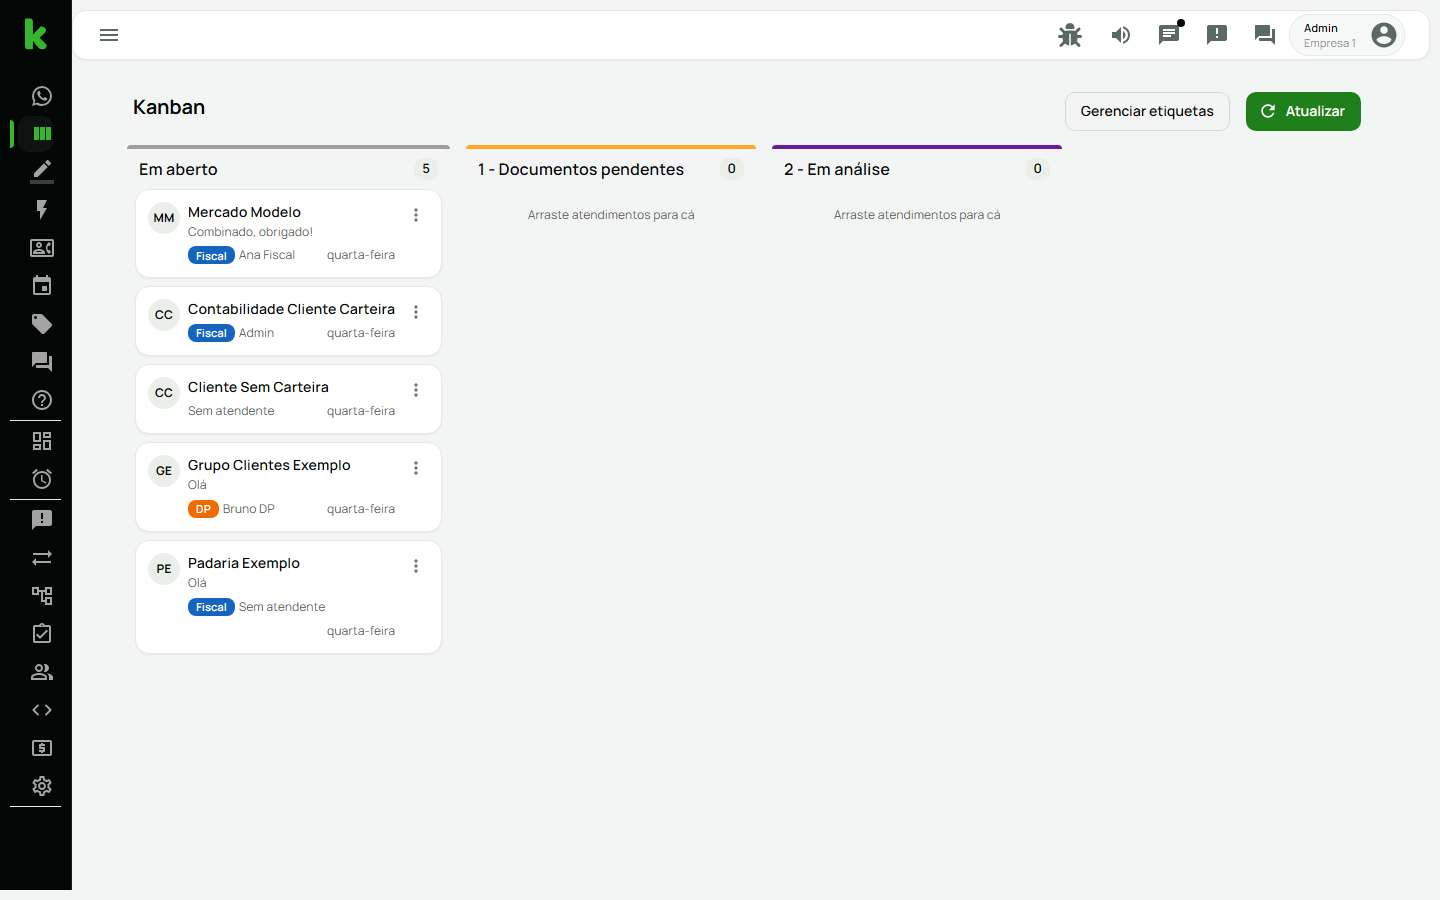
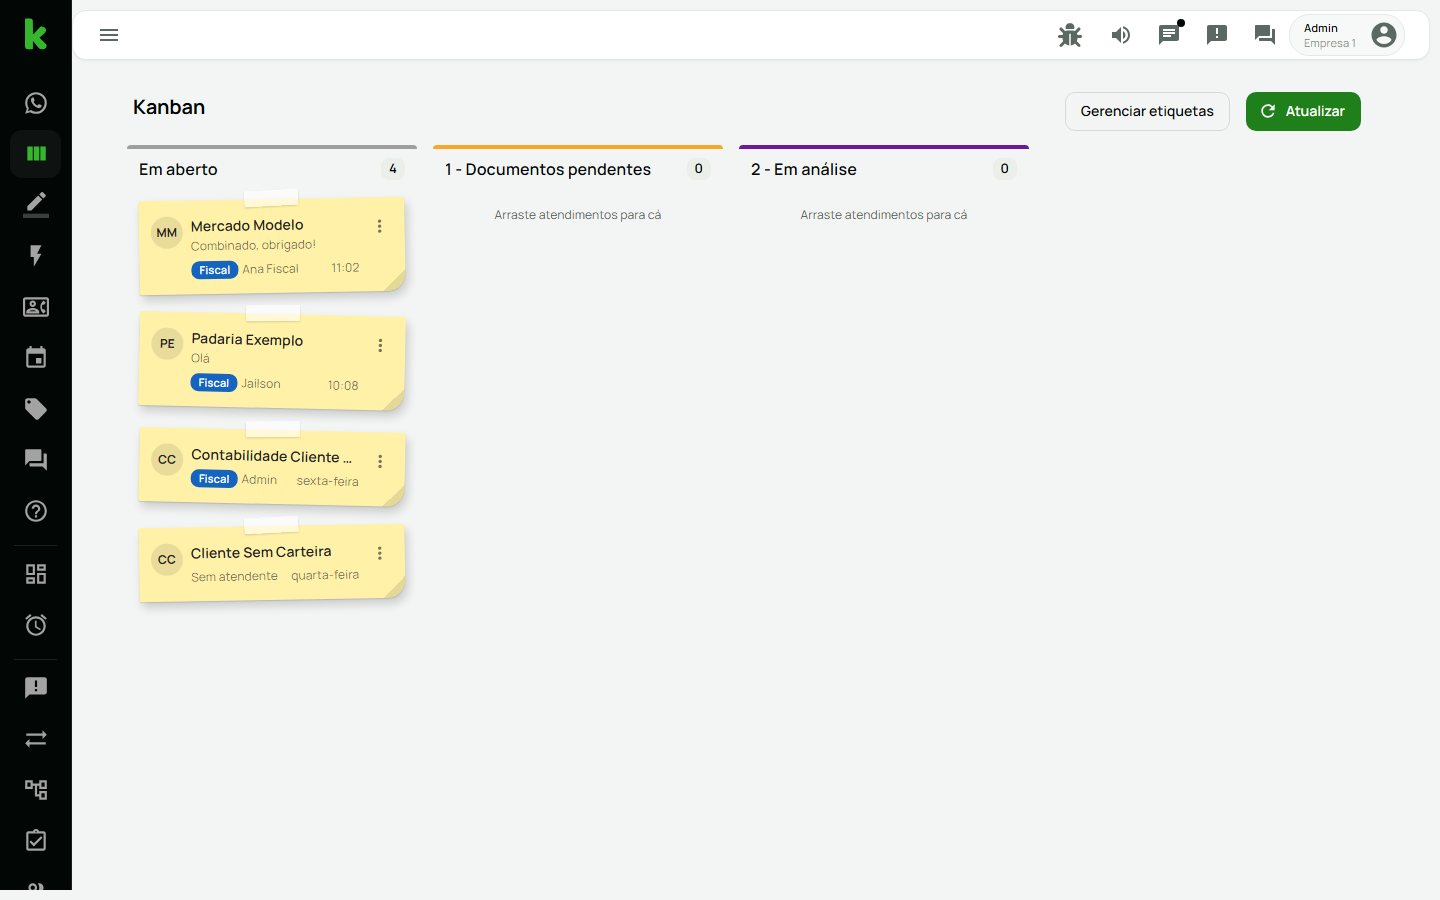
KOM-144 Kanban em formato de post-it e coluna de largura fixa
- Cartões viram post-its: cor da etiqueta da coluna bem clara (amarelo em "Em aberto"), fita no topo, canto dobrado,
  inclinação pequena e fixa por atendimento e destaque ao passar o mouse; tinta escura nos dois temas.
- Coluna com 290 px fixos: uma mensagem longa deixava a primeira coluna com 2.800 px e escondia as outras.
- Prévia sem marcas de markdown (*Admin:*) e contato sem nome com o número formatado.
- PRD (RF-004), CHANGELOG e captura 02-kanban refeita só com contatos fictícios (as demais capturas não foram
  refeitas porque o banco de desenvolvimento agora tem conversas reais).

diff --git a/frontend/src/pages/Kanban/index.js b/frontend/src/pages/Kanban/index.js
@@ -32,11 +32,29 @@ import toastError from "../../errors/toastError";
 import { i18n } from "../../translate/i18n";
 import { SocketContext } from "../../context/Socket/SocketContext";
 import { getInitials } from "../../helpers/getInitials";
+import { formatWhatsappContactName } from "../../helpers/formatWhatsappDisplay";
 import pastRelativeDate from "../../helpers/pastRelativeDate";
 
 // Zap Komunick: Kanban board by tags (docs/PRD.md, RF-004)
 
 const OPEN_LANE = 0;
+
+// Post-it notes: the lane's tag color washed out toward white (classic yellow
+// for the "open" lane) and a small tilt that depends only on the ticket id
+const NOTE_YELLOW = "#FFF1A8";
+
+const noteColor = hex => {
+  const m = /^#?([0-9a-f]{6})$/i.exec(hex || "");
+  if (!m) return NOTE_YELLOW;
+  const n = parseInt(m[1], 16);
+  const mix = c => Math.round(c + (255 - c) * 0.8);
+  const r = mix((n >> 16) & 255);
+  const g = mix((n >> 8) & 255);
+  const b = mix(n & 255);
+  return `rgb(${r}, ${g}, ${b})`;
+};
+
+const noteTilt = id => [-1.4, 0.9, -0.6, 1.3, -1][Math.abs(Number(id) || 0) % 5];
 
 const useStyles = makeStyles(theme => ({
   board: {
@@ -50,6 +68,9 @@ const useStyles = makeStyles(theme => ({
   },
   lane: {
     flex: "0 0 290px",
+    // without this a long unbreakable preview stretches the column (min-width: auto)
+    minWidth: 0,
+    width: 290,
     display: "flex",
     flexDirection: "column",
     maxHeight: "100%",
@@ -82,27 +103,76 @@ const useStyles = makeStyles(theme => ({
     padding: theme.spacing(0, 1, 1),
     display: "flex",
     flexDirection: "column",
-    gap: theme.spacing(1),
+    gap: theme.spacing(1.5),
+    padding: theme.spacing(0, 1.5, 1.5),
     minHeight: 80
   },
   avatar: {
-    backgroundColor: theme.komunick.tagBackground,
-    color: theme.palette.text.primary,
+    backgroundColor: "rgba(35, 34, 27, 0.10)",
+    color: "#23221b",
     width: 32,
     height: 32,
     fontSize: 12,
     fontWeight: 700
   },
+  // the note keeps dark ink in both themes: it is paper, not a panel
   card: {
-    padding: theme.spacing(1.5),
-    border: `1px solid ${theme.palette.divider}`,
+    position: "relative",
+    marginTop: 10,
+    padding: theme.spacing(2, 1.5, 1.75),
+    border: "none",
+    borderRadius: "2px 2px 18px 2px",
+    color: "#23221b",
     cursor: "grab",
     display: "flex",
     gap: theme.spacing(1),
     alignItems: "flex-start",
+    boxShadow: "0 1px 1px rgba(0, 0, 0, 0.12), 3px 6px 10px rgba(0, 0, 0, 0.16)",
+    transform: "rotate(var(--tilt, 0deg))",
+    transition: "transform 140ms ease, box-shadow 140ms ease",
+    "&:hover, &:focus-visible": {
+      transform: "rotate(0deg) translateY(-2px) scale(1.02)",
+      boxShadow:
+        "0 2px 2px rgba(0, 0, 0, 0.12), 6px 12px 18px rgba(0, 0, 0, 0.22)"
+    },
+    "&:active": {
+      cursor: "grabbing"
+    },
+    // strip of tape holding the note
+    "&::before": {
+      content: '""',
+      position: "absolute",
+      top: -9,
+      left: "50%",
+      width: 54,
+      height: 16,
+      marginLeft: -27,
+      backgroundColor: "rgba(255, 255, 255, 0.55)",
+      boxShadow: "0 1px 2px rgba(0, 0, 0, 0.15)",
+      transform: "rotate(-2deg)"
+    },
+    // curled bottom right corner
+    "&::after": {
+      content: '""',
+      position: "absolute",
+      right: 0,
+      bottom: 0,
+      width: 22,
+      height: 22,
+      borderRadius: "0 0 18px 0",
+      background:
+        "linear-gradient(135deg, transparent 50%, rgba(0, 0, 0, 0.10) 50%)"
+    },
     "&:focus-visible": {
-      outline: `2px solid ${theme.palette.primary.main}`
+      outline: `2px solid ${theme.palette.primary.main}`,
+      outlineOffset: 3
     }
+  },
+  noteMeta: {
+    color: "rgba(35, 34, 27, 0.66)"
+  },
+  noteIcon: {
+    color: "rgba(35, 34, 27, 0.6)"
   },
   cardBody: {
     flex: 1,
@@ -140,13 +210,17 @@ const useStyles = makeStyles(theme => ({
 
 const laneId = lane => lane.tag?.id ?? OPEN_LANE;
 
-const KanbanCard = ({ ticket, lanes, currentLane, onMove, onOpen }) => {
+const KanbanCard = ({ ticket, lanes, currentLane, color, onMove, onOpen }) => {
   const classes = useStyles();
   const [anchorEl, setAnchorEl] = useState(null);
 
   return (
     <Paper
       className={classes.card}
+      style={{
+        backgroundColor: noteColor(color),
+        "--tilt": `${noteTilt(ticket.id)}deg`
+      }}
       draggable
       tabIndex={0}
       onDragStart={e => {
@@ -166,16 +240,21 @@ const KanbanCard = ({ ticket, lanes, currentLane, onMove, onOpen }) => {
         {getInitials(ticket.contact?.name || "")}
       </Avatar>
       <div className={classes.cardBody} onClick={() => onOpen(ticket)}>
-        <Typography variant="body2" className={classes.cardTitle}>
-          {ticket.contact?.name}
+        <Typography
+          variant="body2"
+          color="inherit"
+          className={classes.cardTitle}
+        >
+          {formatWhatsappContactName(ticket.contact, ticket)}
         </Typography>
         <Typography
           variant="caption"
-          color="textSecondary"
           component="div"
-          className={classes.cardText}
+          className={`${classes.cardText} ${classes.noteMeta}`}
         >
-          {(ticket.lastMessage || "").split("\n")[0]}
+          {(ticket.lastMessage || "")
+            .replace(/[*_~`]/g, "")
+            .replace(/\s*\n+\s*/g, " ")}
         </Typography>
         <div className={classes.cardMeta}>
           {ticket.queue && (
@@ -190,13 +269,13 @@ const KanbanCard = ({ ticket, lanes, currentLane, onMove, onOpen }) => {
               }}
             />
           )}
-          <Typography variant="caption" color="textSecondary">
+          <Typography variant="caption" className={classes.noteMeta}>
             {ticket.user?.name || i18n.t("kanban.noAttendant")}
           </Typography>
           {ticket.updatedAt && (
             <Typography
               variant="caption"
-              color="textSecondary"
+              className={classes.noteMeta}
               style={{ marginLeft: "auto" }}
             >
               {pastRelativeDate(parseISO(ticket.updatedAt))}
@@ -209,6 +288,7 @@ const KanbanCard = ({ ticket, lanes, currentLane, onMove, onOpen }) => {
           size="small"
           aria-label={i18n.t("kanban.moveTo")}
           aria-haspopup="true"
+          className={classes.noteIcon}
           onClick={e => setAnchorEl(e.currentTarget)}
         >
           <MoreVertIcon fontSize="small" />
@@ -414,6 +494,7 @@ const Kanban = () => {
                       ticket={ticket}
                       lanes={lanes}
                       currentLane={id}
+                      color={lane.tag?.color}
                       onMove={handleMove}
                       onOpen={handleOpen}
                     />

diff --git a/CHANGELOG.md b/CHANGELOG.md
@@ -41,6 +41,8 @@ Mudanças relevantes para quem usa, integra ou opera o projeto.
   das colunas, avatares neutros e carteira em etiqueta verde em Contatos, selos de situação suaves no Painel de SLA.
 - Menu lateral maior e mais legível: itens de 48 px, ícones de 26 px, texto de 15,5 px, títulos de seção de 12,5 px e
   largura de 264 px (72 px só com ícones).
+- Kanban em formato de post-it: cada atendimento é uma nota na cor da etiqueta da coluna (amarelo na coluna "Em aberto"),
+  com fita no topo, canto dobrado, pequena inclinação fixa por atendimento e efeito ao passar o mouse.
 
 ### Corrigido
 
@@ -51,6 +53,9 @@ Mudanças relevantes para quem usa, integra ou opera o projeto.
 - Os contadores das abas "Atendendo" e "Aguardando" não cobrem mais o texto da aba, e o botão "Aceitar" da lista de
   notificações não cobre mais o nome e o horário do atendimento.
 - Erro de console em todas as páginas: o `index.html` chamava um script (`/notificame-gateway.js`) que não existe no projeto.
+- Kanban: a coluna "Em aberto" esticava até 2.800 px com uma mensagem longa e escondia as outras colunas; agora fica em
+  290 px. A prévia da mensagem não mostra mais as marcas de formatação (como `*Admin:*`) e o contato sem nome aparece
+  com o número formatado, como na lista de atendimentos.
 
 ### Operação
 

diff --git a/docs/PRD.md b/docs/PRD.md
@@ -133,6 +133,9 @@ de coluna troca a etiqueta dele.
 - O quadro mostra os atendimentos em aberto que o usuário pode ver na lista: o administrador vê todos; o atendente vê
   os seus e os aguardando das filas dele, e só move esses. Mostra até 500, os movimentados mais recentemente.
 - Além de arrastar, cada cartão tem o menu "Mover para" (teclado e leitores de tela).
+- Cada atendimento aparece como um post-it: papel na cor da etiqueta da coluna (amarelo em "Em aberto"), com fita, canto
+  dobrado e inclinação pequena e fixa. A coluna tem largura fixa de 290 px; a prévia da mensagem é de uma linha, sem marcas
+  de formatação.
 
 **Cenário de sucesso:**
 
